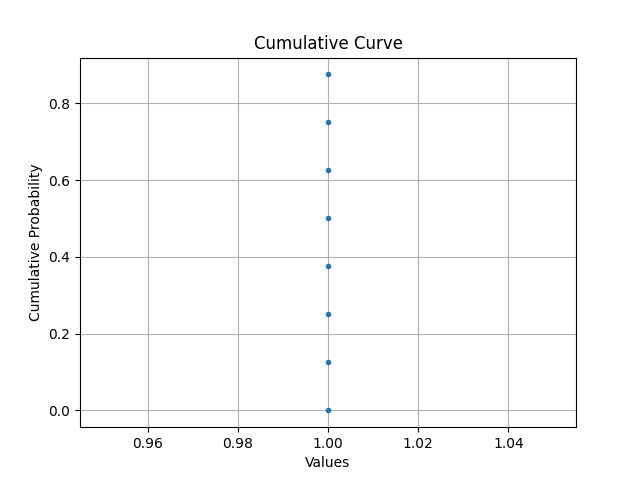
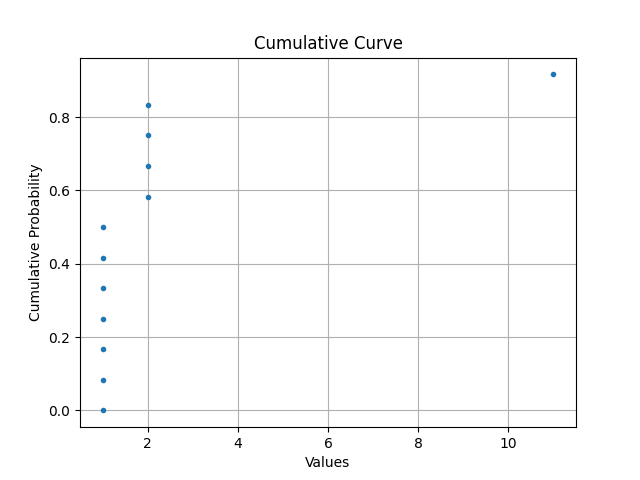
fixed the size of charts and the tabs on which they are displayed

diff --git a/tempCodeRunnerFile.py b/tempCodeRunnerFile.py
@@ -1,148 +1,1 @@
-import sys
-from PyQt5.QtWidgets import QApplication, QMainWindow, QLabel, QLineEdit, QPushButton, QGridLayout, QVBoxLayout, QWidget, QTableWidget, QTableWidgetItem, QTabWidget
-from PyQt5.QtGui import QColor, QPalette, QPixmap  
-from PyQt5.QtCore import Qt 
-from data_processing import process_data  
-from plotting import calculate_frequency_polygon, calculate_cumulative_curve
-import numpy as np
-import matplotlib.pyplot as plt
-
-class MainWindow(QMainWindow):
-    def __init__(self):
-        super().__init__()
-
-        self.setWindowTitle("Statistics Calculator")
-
-        self.central_widget = QWidget()
-        self.setCentralWidget(self.central_widget)
-        self.layout = QVBoxLayout() 
-        self.central_widget.setLayout(self.layout)
-
-        input_container_layout = QVBoxLayout()  
-        self.input_label = QLabel("Enter numbers (separated by space):")
-        self.input_field = QLineEdit()
-        self.calculate_button = QPushButton("Calculate")
-        self.calculate_button.clicked.connect(lambda: self.calculate_callback())
-
-        input_container_layout.addWidget(self.input_label)
-        input_container_layout.addWidget(self.input_field)
-        input_container_layout.addWidget(self.calculate_button)
-
-        self.layout.addLayout(input_container_layout)
-
-        # Create a tab widget
-        self.tab_widget = QTabWidget()
-        self.layout.addWidget(self.tab_widget)
-
-        # Create two tabs
-        self.tab_frequency_polygon = QWidget()
-        self.tab_cumulative_curve = QWidget()
-        self.tab_widget.addTab(self.tab_frequency_polygon, "Frequency Polygon")
-        self.tab_widget.addTab(self.tab_cumulative_curve, "Cumulative Curve")
-
-        # Layouts for each tab
-        self.layout_frequency_polygon = QVBoxLayout()
-        self.layout_cumulative_curve = QVBoxLayout()
-        self.tab_frequency_polygon.setLayout(self.layout_frequency_polygon)
-        self.tab_cumulative_curve.setLayout(self.layout_cumulative_curve)
-
-        # Tables layout
-        tables_container = QWidget()  # Create a QWidget to contain the QGridLayout
-        tables_layout = QGridLayout(tables_container)
-        self.tables = []
-        for i, title in enumerate(["Variation Series", "Statistical Distribution", "Relative Frequencies", "Cumulative Frequencies", "Relative Cumulative Frequencies"]):
-            table = QTableWidget()
-            table.setColumnCount(2)
-            table.setHorizontalHeaderLabels(["Statistic", "Value"])
-            self.tables.append(table)
-            tables_layout.addWidget(QLabel(f"<b>{title}</b>"), 0, i)
-            tables_layout.addWidget(table, 1, i)
-
-        self.layout.addWidget(tables_container)
-
-        self.mode_label = QLabel()
-        self.median_label = QLabel()
-        self.mean_label = QLabel()
-        self.variance_label = QLabel()
-        self.std_deviation_label = QLabel()
-
-        self.layout.addWidget(self.mode_label)
-        self.layout.addWidget(self.median_label)
-        self.layout.addWidget(self.mean_label)
-        self.layout.addWidget(self.variance_label)
-        self.layout.addWidget(self.std_deviation_label)
-
-        # Placeholder labels for frequency polygon and cumulative curve images
-        self.label_frequency_polygon = QLabel("Frequency Polygon will be displayed here")
-        self.label_cumulative_curve = QLabel("Cumulative Curve will be displayed here")
-        self.layout_frequency_polygon.addWidget(self.label_frequency_polygon)
-        self.layout_cumulative_curve.addWidget(self.label_cumulative_curve)
-
-    def calculate_callback(self):
-        data = self.input_field.text()
-        numbers = list(map(float, data.split()))
-
-        results = process_data(numbers)
-
-        for table, (title, values) in zip(self.tables, results.items()):
-            if isinstance(values, dict):  
-                table.setRowCount(len(values))
-                for row, (statistic, value) in enumerate(values.items()):
-                    table.setItem(row, 0, QTableWidgetItem(str(statistic)))
-                    item = QTableWidgetItem("{:.3f}".format(value)) 
-                    item.setTextAlignment(Qt.AlignCenter)
-                    table.setItem(row, 1, item)
-            else:  
-                if isinstance(values, list):
-                    table.setRowCount(len(values))
-                    for row, value in enumerate(values):
-                        table.setItem(row, 0, QTableWidgetItem(str(row + 1)))
-                        item = QTableWidgetItem("{:.3f}".format(value)) 
-                        item.setTextAlignment(Qt.AlignCenter) 
-                        table.setItem(row, 1, item)
-                else:  
-                    table.setRowCount(1)
-                    table.setItem(0, 0, QTableWidgetItem(str(title)))
-                    item = QTableWidgetItem("{:.3f}".format(values))  
-                    item.setTextAlignment(Qt.AlignCenter)  
-                    table.setItem(0, 1, item)
-
-        self.mode_label.setText(f"Mode: {results['Mode']}")
-        self.median_label.setText(f"Median: {results['Median']}")
-        self.mean_label.setText(f"Mean: {results['Mean']}")
-        self.variance_label.setText(f"Variance: {results['Variance']}")
-        self.std_deviation_label.setText(f"Standard Deviation: {results['Standard Deviation']}")
-
-        # Calculate and update frequency polygon
-        frequency_polygon_path = calculate_frequency_polygon(numbers)
-        frequency_pixmap = QPixmap(frequency_polygon_path)
-        self.label_frequency_polygon.setPixmap(frequency_pixmap)
-
-        # Calculate and update cumulative curve
-        cumulative_curve_path = calculate_cumulative_curve(numbers)
-        cumulative_pixmap = QPixmap(cumulative_curve_path)
-        self.label_cumulative_curve.setPixmap(cumulative_pixmap)
-
-if __name__ == "__main__":
-    app = QApplication(sys.argv)
-
-    app.setStyle("Fusion")
-    palette = app.palette()
-    palette.setColor(QPalette.Window, QColor(53, 53, 53))
-    palette.setColor(QPalette.WindowText, Qt.white)
-    palette.setColor(QPalette.Base, QColor(25, 25, 25))
-    palette.setColor(QPalette.AlternateBase, QColor(53, 53, 53))
-    palette.setColor(QPalette.ToolTipBase, Qt.white)
-    palette.setColor(QPalette.ToolTipText, Qt.white)
-    palette.setColor(QPalette.Text, Qt.white)
-    palette.setColor(QPalette.Button, QColor(53, 53, 53))
-    palette.setColor(QPalette.ButtonText, Qt.white)
-    palette.setColor(QPalette.BrightText, Qt.red)
-    palette.setColor(QPalette.Link, QColor(42, 130, 218))
-    palette.setColor(QPalette.Highlight, QColor(42, 130, 218))
-    palette.setColor(QPalette.HighlightedText, Qt.black)
-    app.setPalette(palette)
-
-    window = MainWindow()
-    window.showMaximized()  
-    sys.exit(app.exec_())
+Plotting

diff --git a/main.py b/main.py
@@ -33,16 +33,16 @@ class MainWindow(QMainWindow):
         self.layout.addWidget(self.tab_widget)
 
         # Create two tabs
-        self.tab_frequency_polygon = QWidget()
-        self.tab_cumulative_curve = QWidget()
-        self.tab_widget.addTab(self.tab_frequency_polygon, "Frequency Polygon")
-        self.tab_widget.addTab(self.tab_cumulative_curve, "Cumulative Curve")
+        self.tab_statistics = QWidget()
+        self.tab_graphs = QWidget()
+        self.tab_widget.addTab(self.tab_statistics, "Statistics")
+        self.tab_widget.addTab(self.tab_graphs, "Graphs")
 
         # Layouts for each tab
-        self.layout_frequency_polygon = QVBoxLayout()
-        self.layout_cumulative_curve = QVBoxLayout()
-        self.tab_frequency_polygon.setLayout(self.layout_frequency_polygon)
-        self.tab_cumulative_curve.setLayout(self.layout_cumulative_curve)
+        self.layout_statistics = QVBoxLayout()
+        self.layout_graphs = QVBoxLayout()
+        self.tab_statistics.setLayout(self.layout_statistics)
+        self.tab_graphs.setLayout(self.layout_graphs)
 
         # Tables layout
         tables_container = QWidget()  # Create a QWidget to contain the QGridLayout
@@ -56,7 +56,7 @@ class MainWindow(QMainWindow):
             tables_layout.addWidget(QLabel(f"<b>{title}</b>"), 0, i)
             tables_layout.addWidget(table, 1, i)
 
-        self.layout.addWidget(tables_container)
+        self.layout_statistics.addWidget(tables_container)
 
         self.mode_label = QLabel()
         self.median_label = QLabel()
@@ -64,11 +64,27 @@ class MainWindow(QMainWindow):
         self.variance_label = QLabel()
         self.std_deviation_label = QLabel()
 
-        self.layout.addWidget(self.mode_label)
-        self.layout.addWidget(self.median_label)
-        self.layout.addWidget(self.mean_label)
-        self.layout.addWidget(self.variance_label)
-        self.layout.addWidget(self.std_deviation_label)
+        self.layout_statistics.addWidget(self.mode_label)
+        self.layout_statistics.addWidget(self.median_label)
+        self.layout_statistics.addWidget(self.mean_label)
+        self.layout_statistics.addWidget(self.variance_label)
+        self.layout_statistics.addWidget(self.std_deviation_label)
+
+        # Create sub-tabs for graphs
+        self.graphs_tab_widget = QTabWidget()
+        self.layout_graphs.addWidget(self.graphs_tab_widget)
+
+        # Create tabs for each type of graph
+        self.tab_frequency_polygon = QWidget()
+        self.tab_cumulative_curve = QWidget()
+        self.graphs_tab_widget.addTab(self.tab_frequency_polygon, "Frequency Polygon")
+        self.graphs_tab_widget.addTab(self.tab_cumulative_curve, "Cumulative Curve")
+
+        # Layouts for each type of graph
+        self.layout_frequency_polygon = QVBoxLayout()
+        self.layout_cumulative_curve = QVBoxLayout()
+        self.tab_frequency_polygon.setLayout(self.layout_frequency_polygon)
+        self.tab_cumulative_curve.setLayout(self.layout_cumulative_curve)
 
         # Placeholder labels for frequency polygon and cumulative curve images
         self.label_frequency_polygon = QLabel("Frequency Polygon will be displayed here")
@@ -111,15 +127,26 @@ class MainWindow(QMainWindow):
         self.variance_label.setText(f"Variance: {results['Variance']}")
         self.std_deviation_label.setText(f"Standard Deviation: {results['Standard Deviation']}")
 
-        # Calculate and update frequency polygon
-        frequency_polygon_path = calculate_frequency_polygon(numbers)
-        frequency_pixmap = QPixmap(frequency_polygon_path)
+        frequency_data = calculate_frequency_polygon(numbers)
+        frequency_pixmap = QPixmap(frequency_data)
+        tab_size = self.tab_frequency_polygon.size()  # Get the size of the tab
+        scaling_factor = min(tab_size.width() / frequency_pixmap.width(), tab_size.height() / frequency_pixmap.height())
+        scaled_width = int(frequency_pixmap.width() * scaling_factor * 2.5)  # Increase scaling factor slightly
+        scaled_height = int(frequency_pixmap.height() * scaling_factor * 2.5)  # Increase scaling factor slightly
+        frequency_pixmap = frequency_pixmap.scaled(scaled_width, scaled_height)
         self.label_frequency_polygon.setPixmap(frequency_pixmap)
+        self.label_frequency_polygon.setAlignment(Qt.AlignCenter)  # Center the pixmap within the label
 
         # Calculate and update cumulative curve
-        cumulative_curve_path = calculate_cumulative_curve(numbers)
-        cumulative_pixmap = QPixmap(cumulative_curve_path)
+        cumulative_data = calculate_cumulative_curve(numbers)
+        cumulative_pixmap = QPixmap(cumulative_data)
+        tab_size = self.tab_cumulative_curve.size()  # Get the size of the tab
+        scaling_factor = min(tab_size.width() / cumulative_pixmap.width(), tab_size.height() / cumulative_pixmap.height())
+        scaled_width = int(cumulative_pixmap.width() * scaling_factor * 2.5)  # Increase scaling factor slightly
+        scaled_height = int(cumulative_pixmap.height() * scaling_factor * 2.5)  # Increase scaling factor slightly
+        cumulative_pixmap = cumulative_pixmap.scaled(scaled_width, scaled_height)
         self.label_cumulative_curve.setPixmap(cumulative_pixmap)
+        self.label_cumulative_curve.setAlignment(Qt.AlignCenter)  # Center the pixmap within the label
 
 if __name__ == "__main__":
     app = QApplication(sys.argv)

diff --git a/plotting.py b/plotting.py
@@ -30,6 +30,8 @@ def calculate_frequency_polygon(data):
     
     return frequency_polygon_path
 
+def Plotting():
+    pass
 
 def calculate_cumulative_curve(data):
     """
